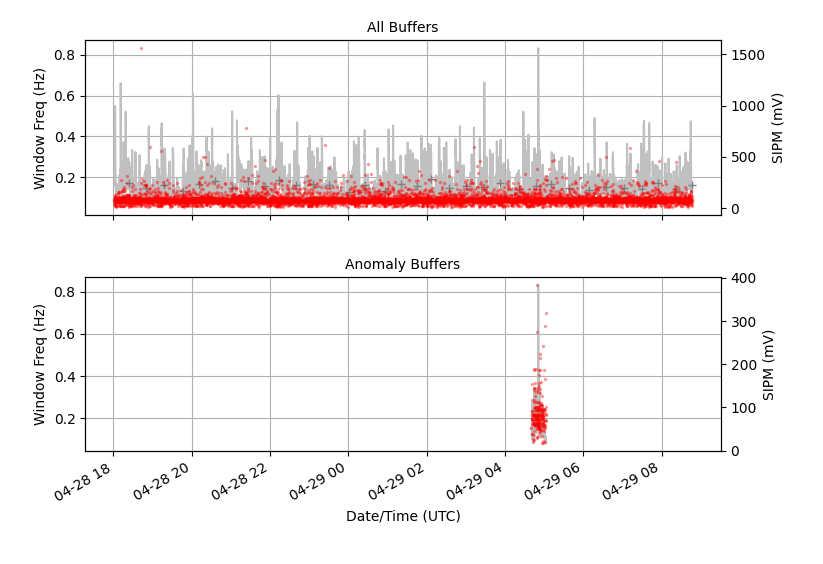
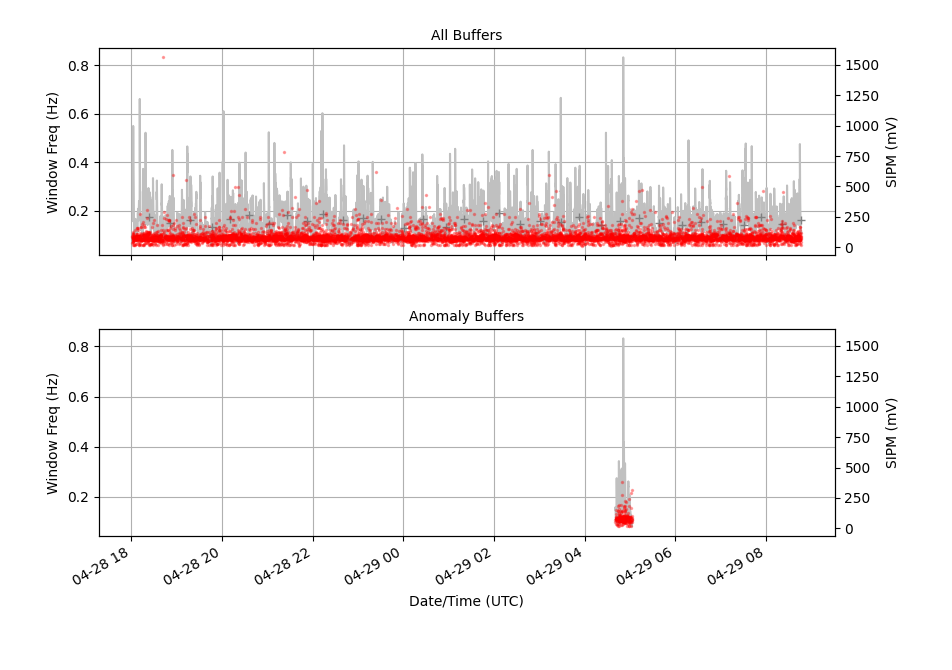
SPIM (mV) all and anomaly axes limits synchronised (0.2.5)

diff --git a/muon_plot.py b/muon_plot.py
@@ -129,6 +129,7 @@ def main():
     ax2.set_ylabel('Window Freq (Hz)')
     win_f_df, median_f_d, sipm = get_data_dirs(directory_list, "anomaly")
     if win_f_df is not None:
+        ax2_2.set_ylim(ax1_2.get_ylim())
         ax2.plot(win_f_df['time'].values, win_f_df['win_f'].values, '-', color='silver')
         ax2_2.plot(sipm['time'].values, sipm['sipm'].values, '.', color='red', markersize=3, alpha=0.3)
     ax2.grid()

diff --git a/data_collector.py b/data_collector.py
@@ -20,7 +20,7 @@ from ftplib import FTP
 from datetime import datetime, timezone
 
 DATE_TIME_FORMAT: str = "%Y-%m-%d %H:%M:%S.%f"
-VERSION: str = "0.2.4"
+VERSION: str = "0.2.5"
 
 
 class Status(Enum):
